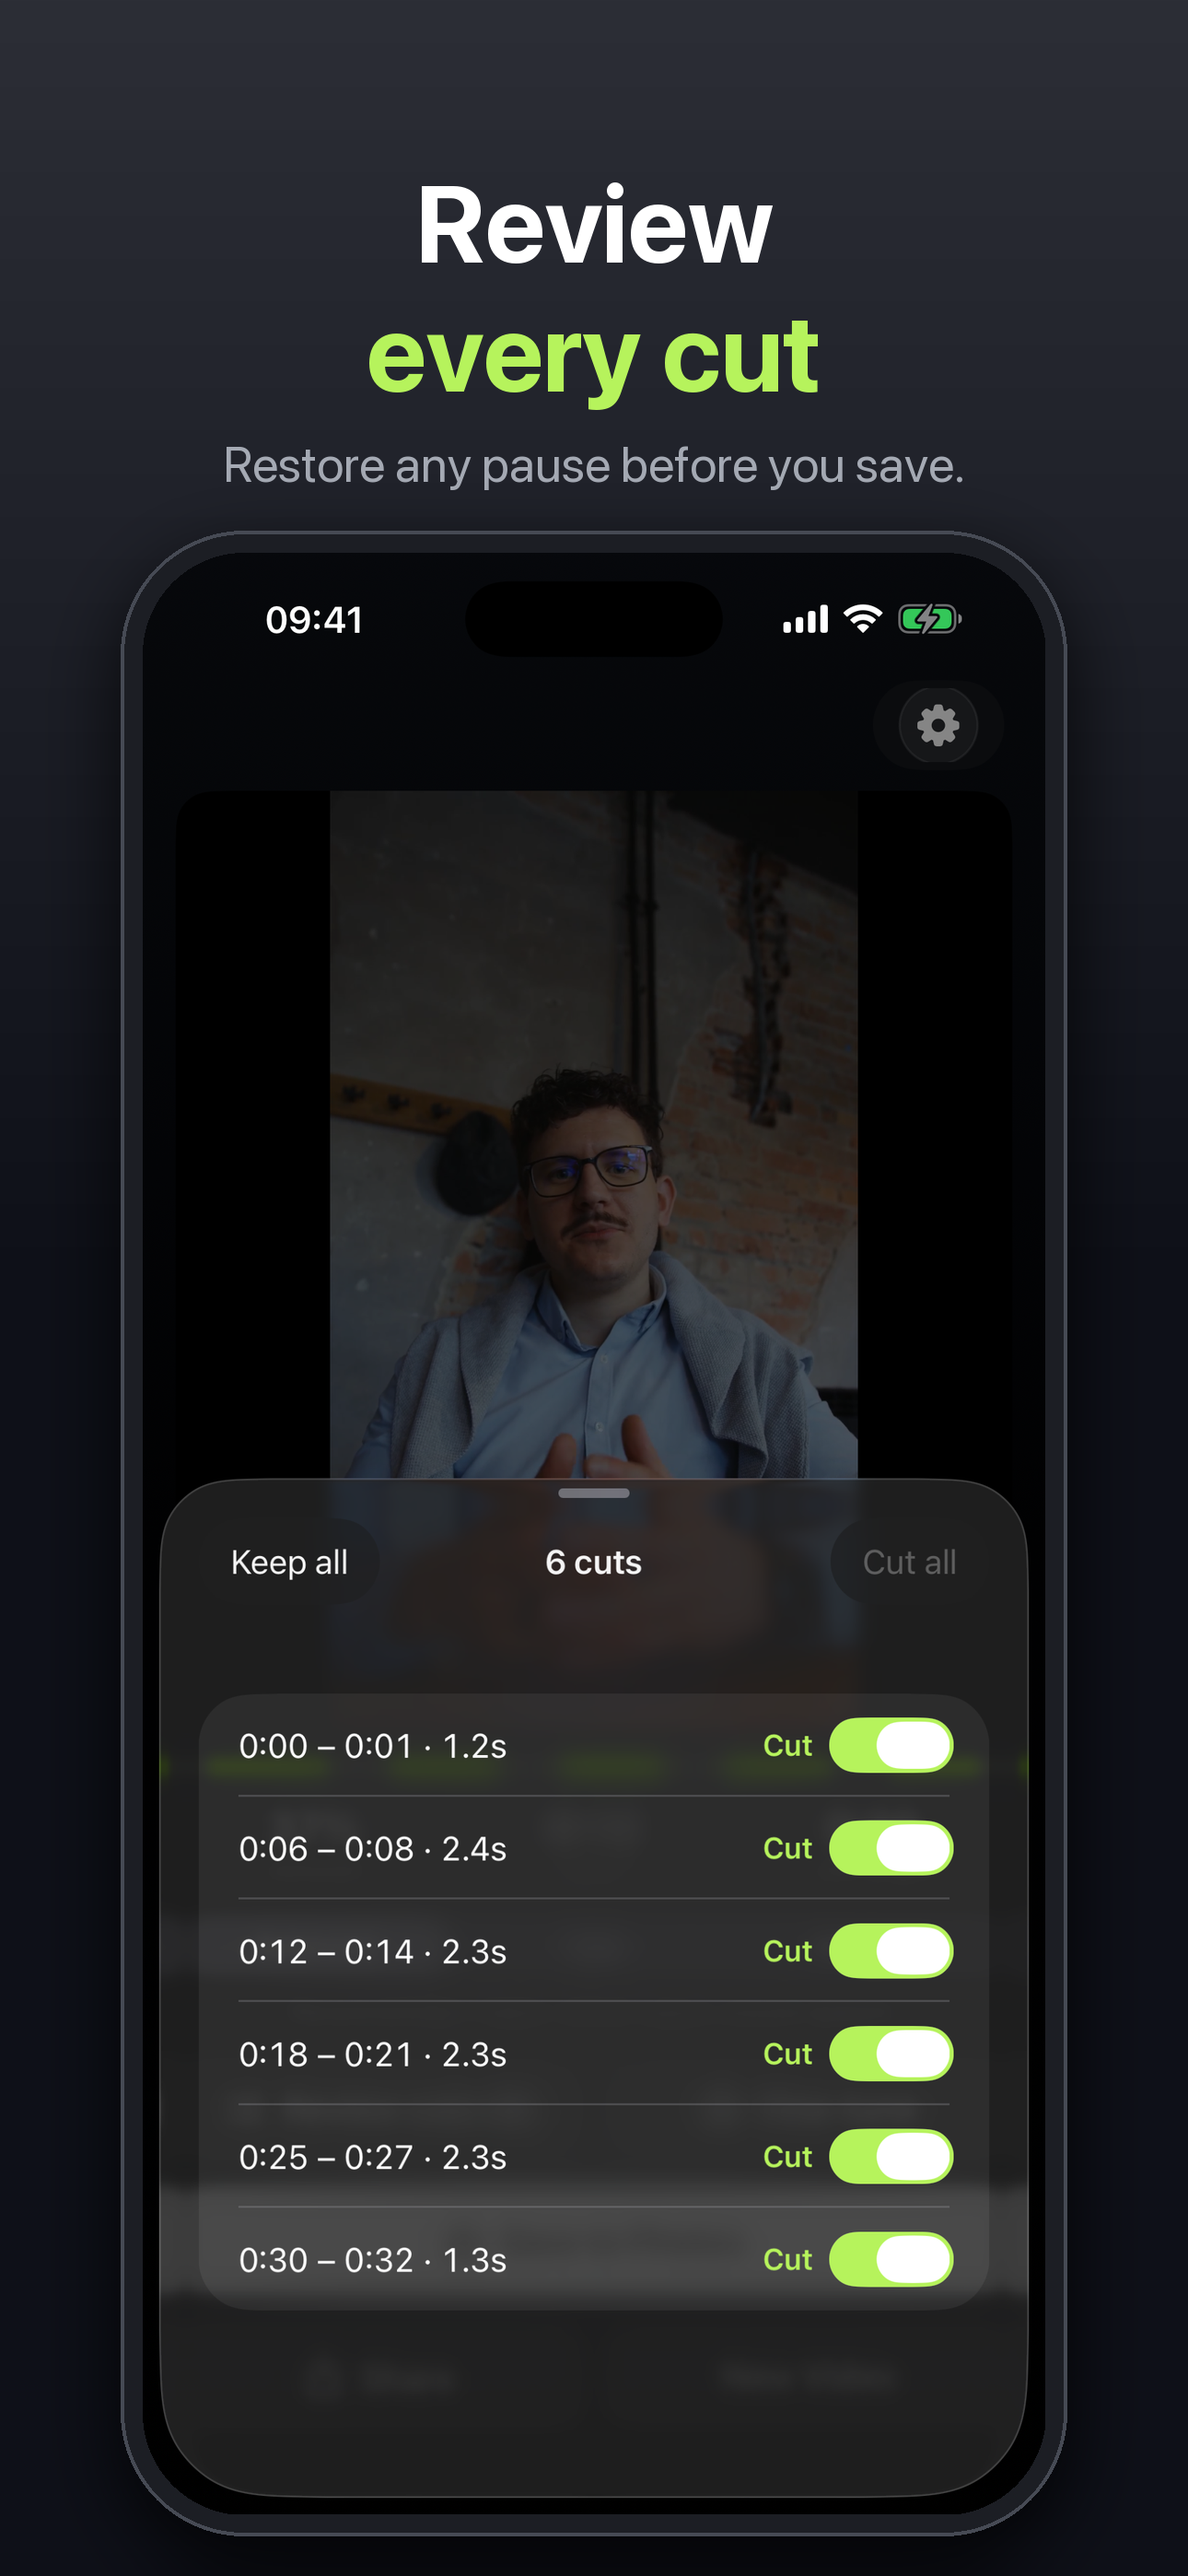
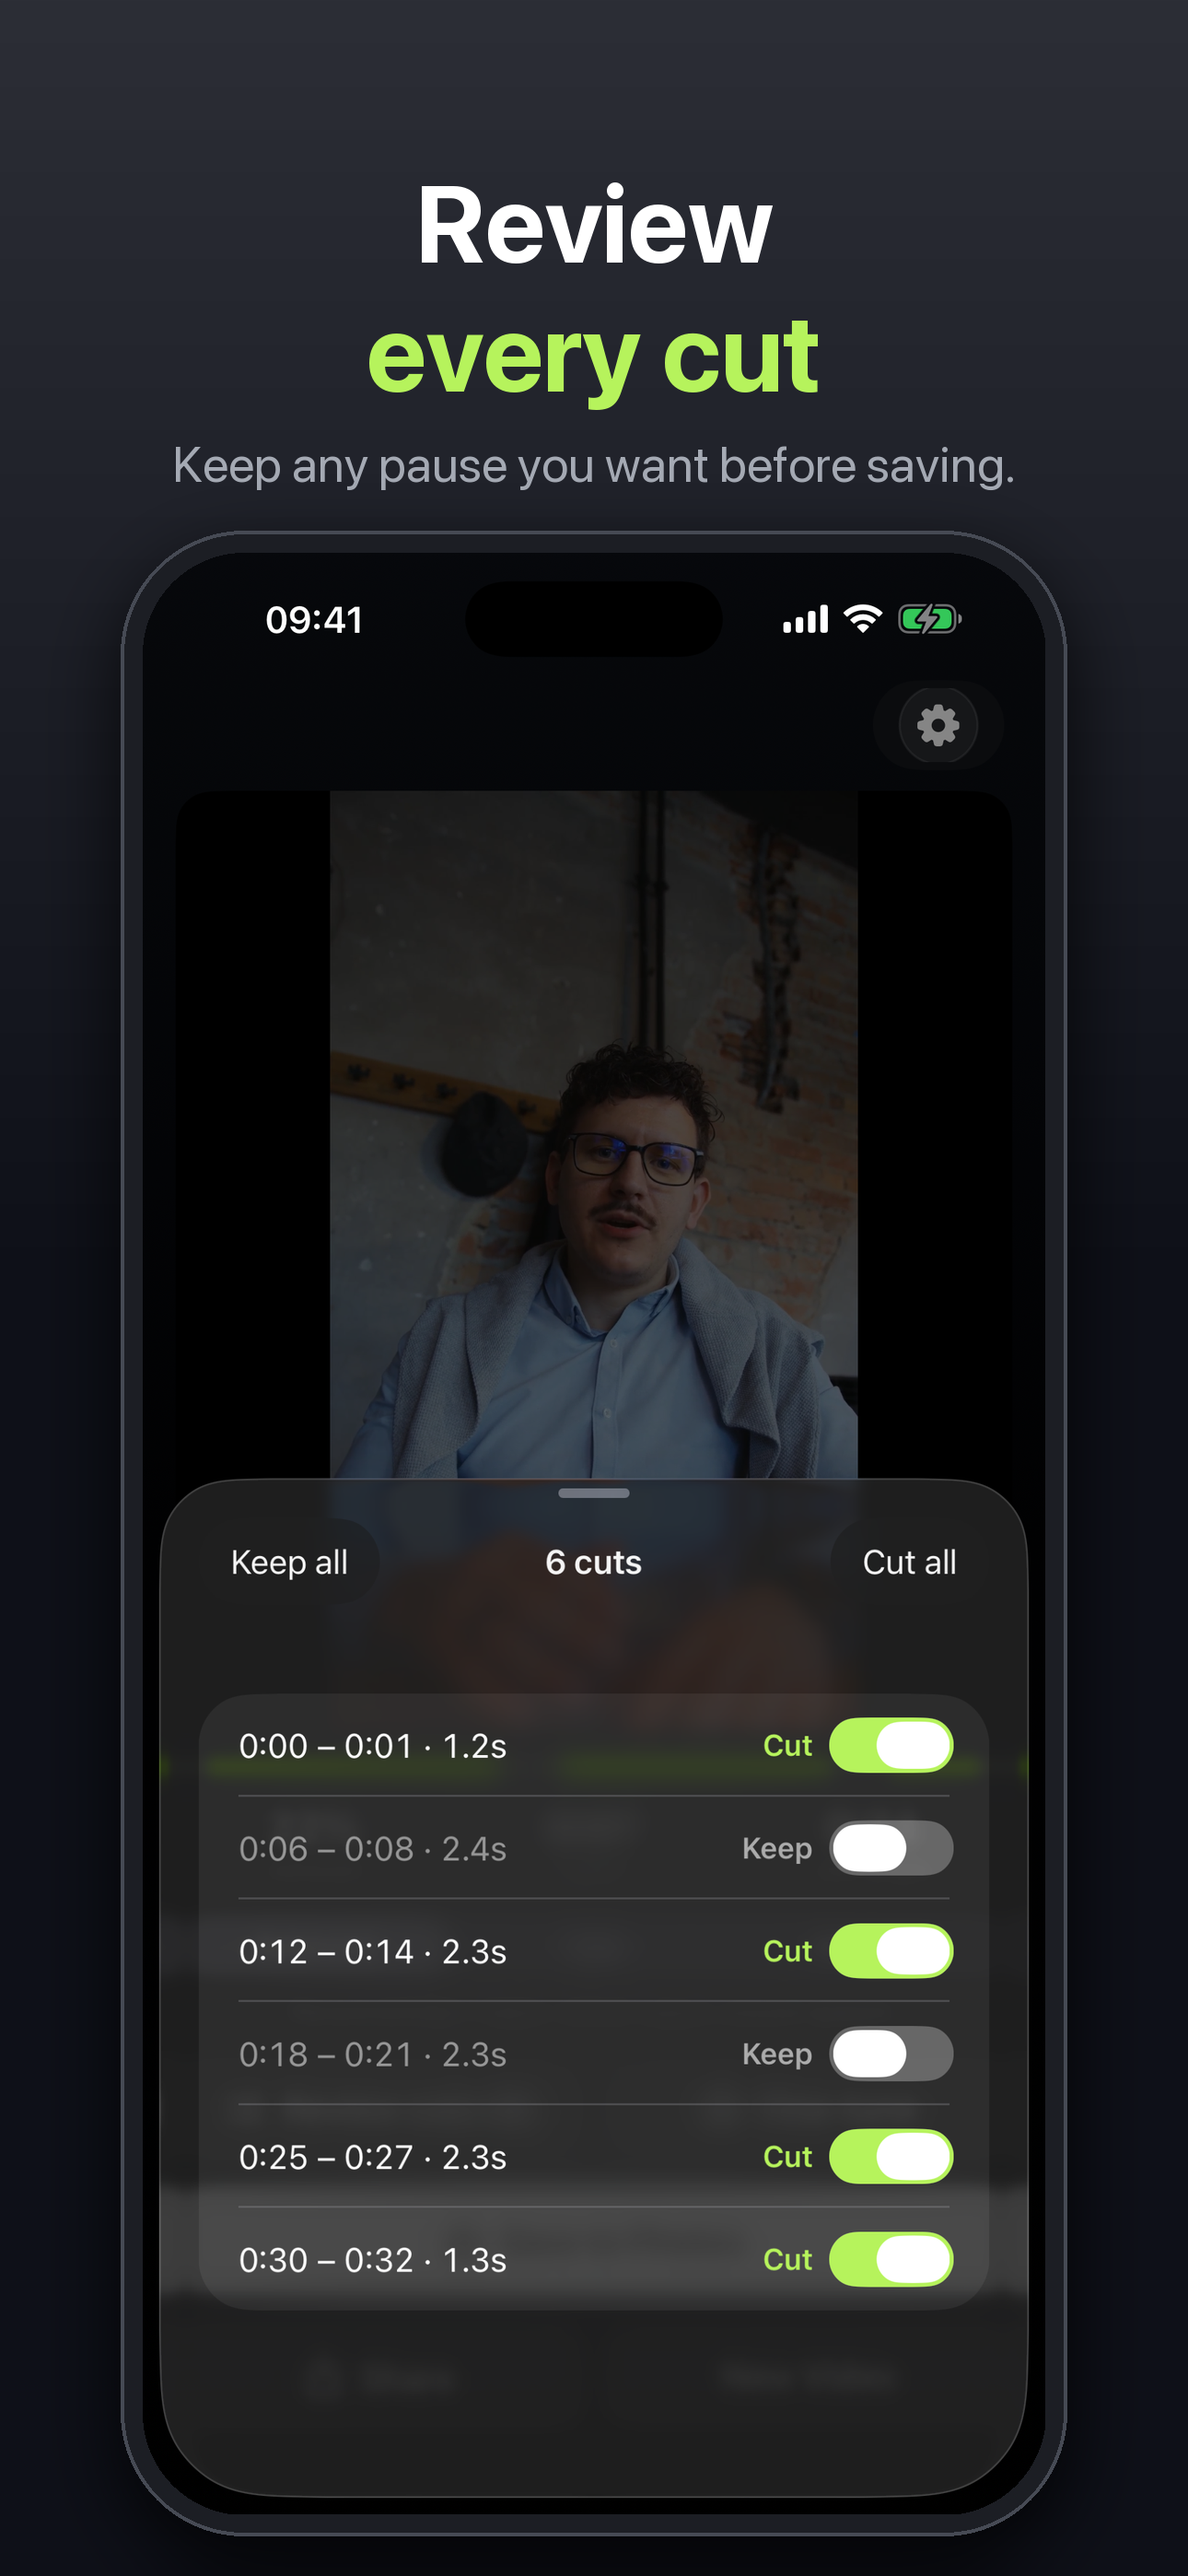
Store screenshots v2: no test ads, real numbers, kept cuts visible, accurate captions

diff --git a/ios/metadata/screenshots/compose.py b/ios/metadata/screenshots/compose.py
@@ -32,7 +32,7 @@ def shot(raw,lines,sub,out):
     bg.paste(frame,(x-bez,top-bez),frame)
     bg.paste(im,(x,top),mask)
     bg.convert('RGB').save(out,optimize=True)
-shot(f'{S}/raw_review.png',[('Remove silence',False),('in one tap',True)],'Free. No watermark. No sign-up.',f'{S}/store/01_review.png')
-shot(f'{S}/raw_cuts.png',[('Review',False),('every cut',True)],'Restore any pause before you save.',f'{S}/store/02_cuts.png')
-shot(f'{S}/raw_home.png',[('Runs on',False),('your iPhone',True)],'Your video is never uploaded.',f'{S}/store/03_home.png')
-shot(f'{S}/raw_paywall.png',[('No',False),('subscription',True)],'Free with ads. One-time Pro removes them.',f'{S}/store/04_pro.png')
+shot(f'{S}/raw_review.png',[('32s video,',False),('20s result',True)],'Free. No watermark. No sign-up.',f'{S}/store/01_review.png')
+shot(f'{S}/raw_cuts.png',[('Review',False),('every cut',True)],'Keep any pause you want before saving.',f'{S}/store/02_cuts.png')
+shot(f'{S}/raw_home.png',[('Private',False),('by design',True)],'Your video never leaves your iPhone.',f'{S}/store/03_home.png')
+shot(f'{S}/raw_paywall.png',[('Pay once.',False),('No subscription',True)],'Free with ads. Pro removes them for good.',f'{S}/store/04_pro.png')
